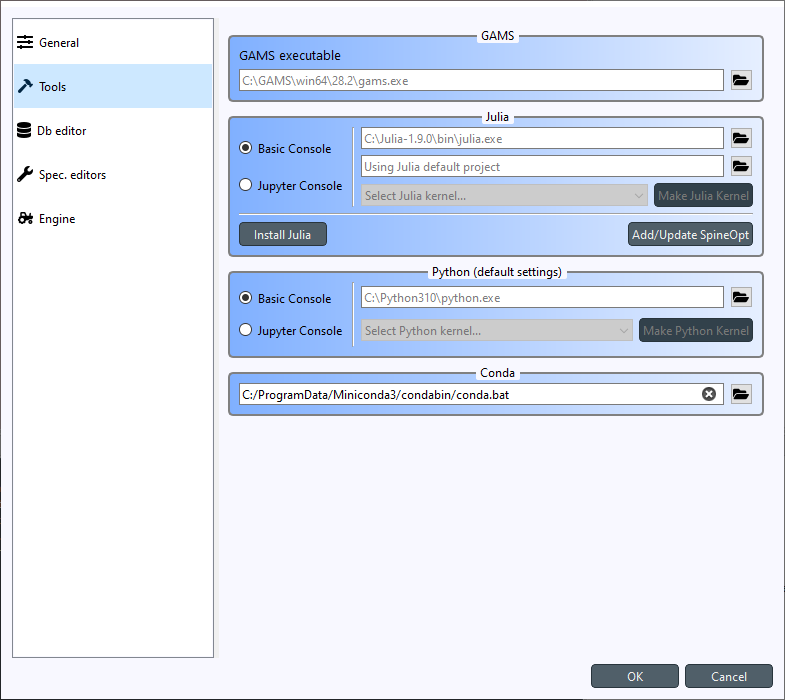
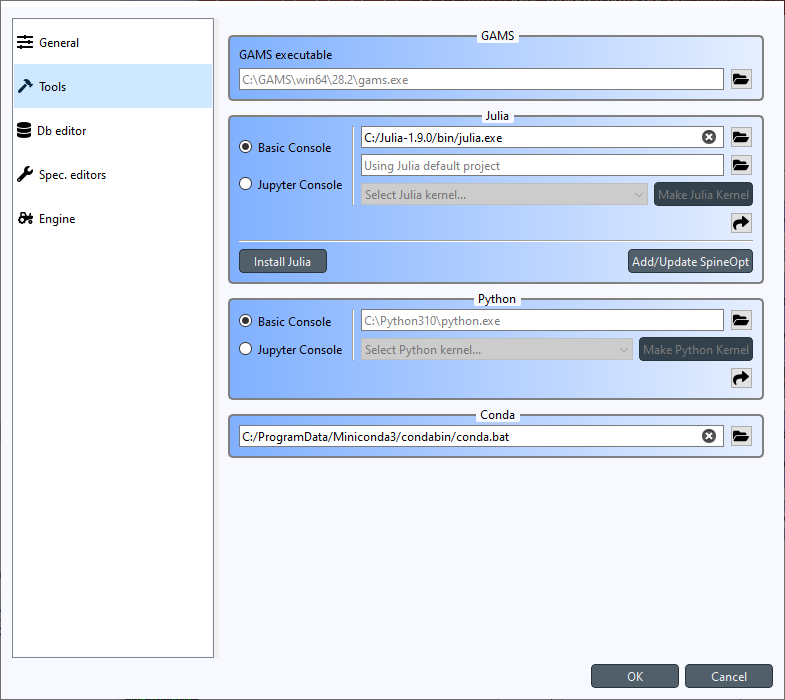
Update docs

diff --git a/spinetoolbox/resources_icons_rc.py b/spinetoolbox/resources_icons_rc.py
@@ -32134,7 +32134,7 @@ qt_resource_struct = b"\
 \x00\x00\x01\xbe\x00\x00\x00\x00\x00\x01\x00\x060\xaf\
 \x00\x00\x01y\x13P\x1f\xf7\
 \x00\x00\x03\x98\x00\x00\x00\x00\x00\x01\x00\x06\x94o\
-\x00\x00\x01\x8c\xf8.\x85\x86\
+\x00\x00\x01\x8d\x0e\x1dJc\
 \x00\x00\x01\xa6\x00\x00\x00\x00\x00\x01\x00\x06/\x9c\
 \x00\x00\x01y\x13P \x02\
 \x00\x00\x04$\x00\x00\x00\x00\x00\x01\x00\x06\xa0\x10\

diff --git a/spinetoolbox/ui/settings.py b/spinetoolbox/ui/settings.py
@@ -1084,7 +1084,7 @@ class Ui_SettingsForm(object):
         self.listWidget.currentRowChanged.connect(self.stackedWidget.setCurrentIndex)
 
         self.listWidget.setCurrentRow(-1)
-        self.stackedWidget.setCurrentIndex(1)
+        self.stackedWidget.setCurrentIndex(0)
 
 
         QMetaObject.connectSlotsByName(SettingsForm)

diff --git a/docs/source/settings.rst b/docs/source/settings.rst
@@ -3,6 +3,9 @@
 .. |open-folder| image:: ../../spinetoolbox/ui/resources/menu_icons/folder-open-solid.svg
    :width: 16
 
+.. |share| image:: ../../spinetoolbox/ui/resources/share.svg
+   :width: 16
+
 .. _Settings:
 
 ********
@@ -119,6 +122,9 @@ Choose the settings on how Julia Tools are executed.
   package which will be installed to the selected *Julia project*. After **IJulia** has been installed, the kernel is
   installed. This process can take a couple of minutes to finish.
 
+- |share| This button sets **all Julia Tools** execution settings in the current project to defaults. This
+  operation is irreversible because the project will be saved afterwards.
+
 - **Install Julia** Installs the latest Julia on your system using the **jill** package.
 
 - **Add/Update SpineOpt** Installs the latest compatible **SpineOpt** to the selected Julia project. If the selected
@@ -146,6 +152,9 @@ Choose the settings on how Python Tools are executed.
   progress of the operation is shown in another dialog. Installing a Python kernel (actually IPython kernel)
   requires the **ipykernel** package which will be installed to the selected *Python executables*. After
   **ipykernel** has been installed, the kernel is installed. This process can take a couple of minutes to finish.
+
+- |share| This button sets **all Python Tools** execution settings in the current project to defaults. This
+  operation is irreversible because the project will be saved afterwards.
 
 Settings in the **Conda** group:
 
